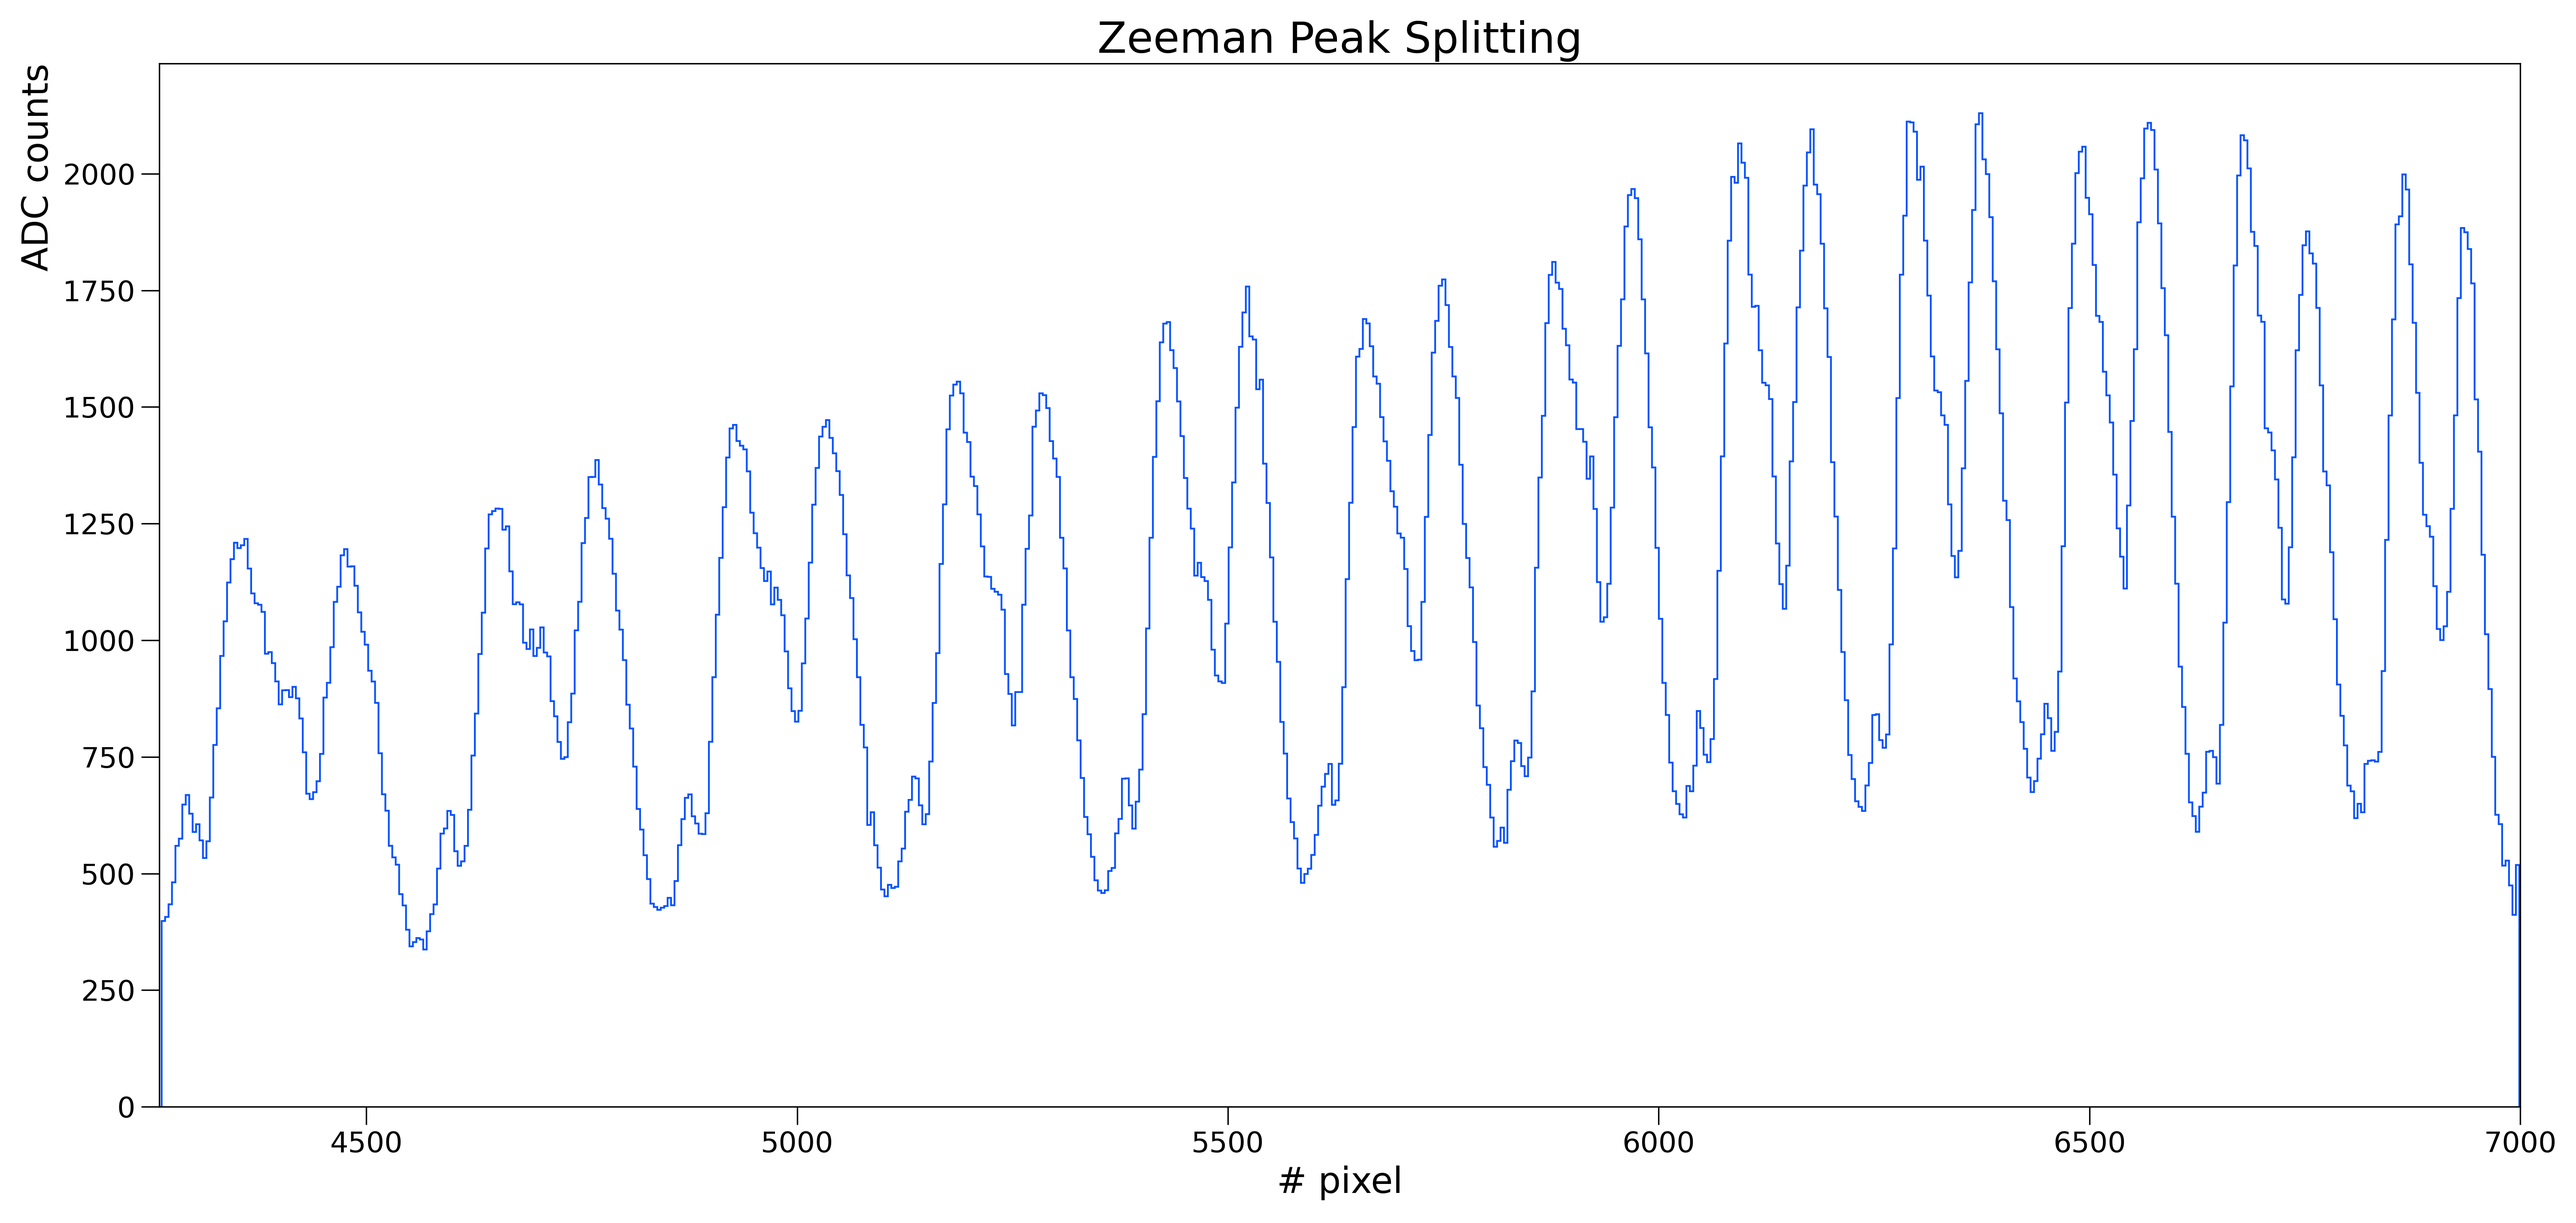
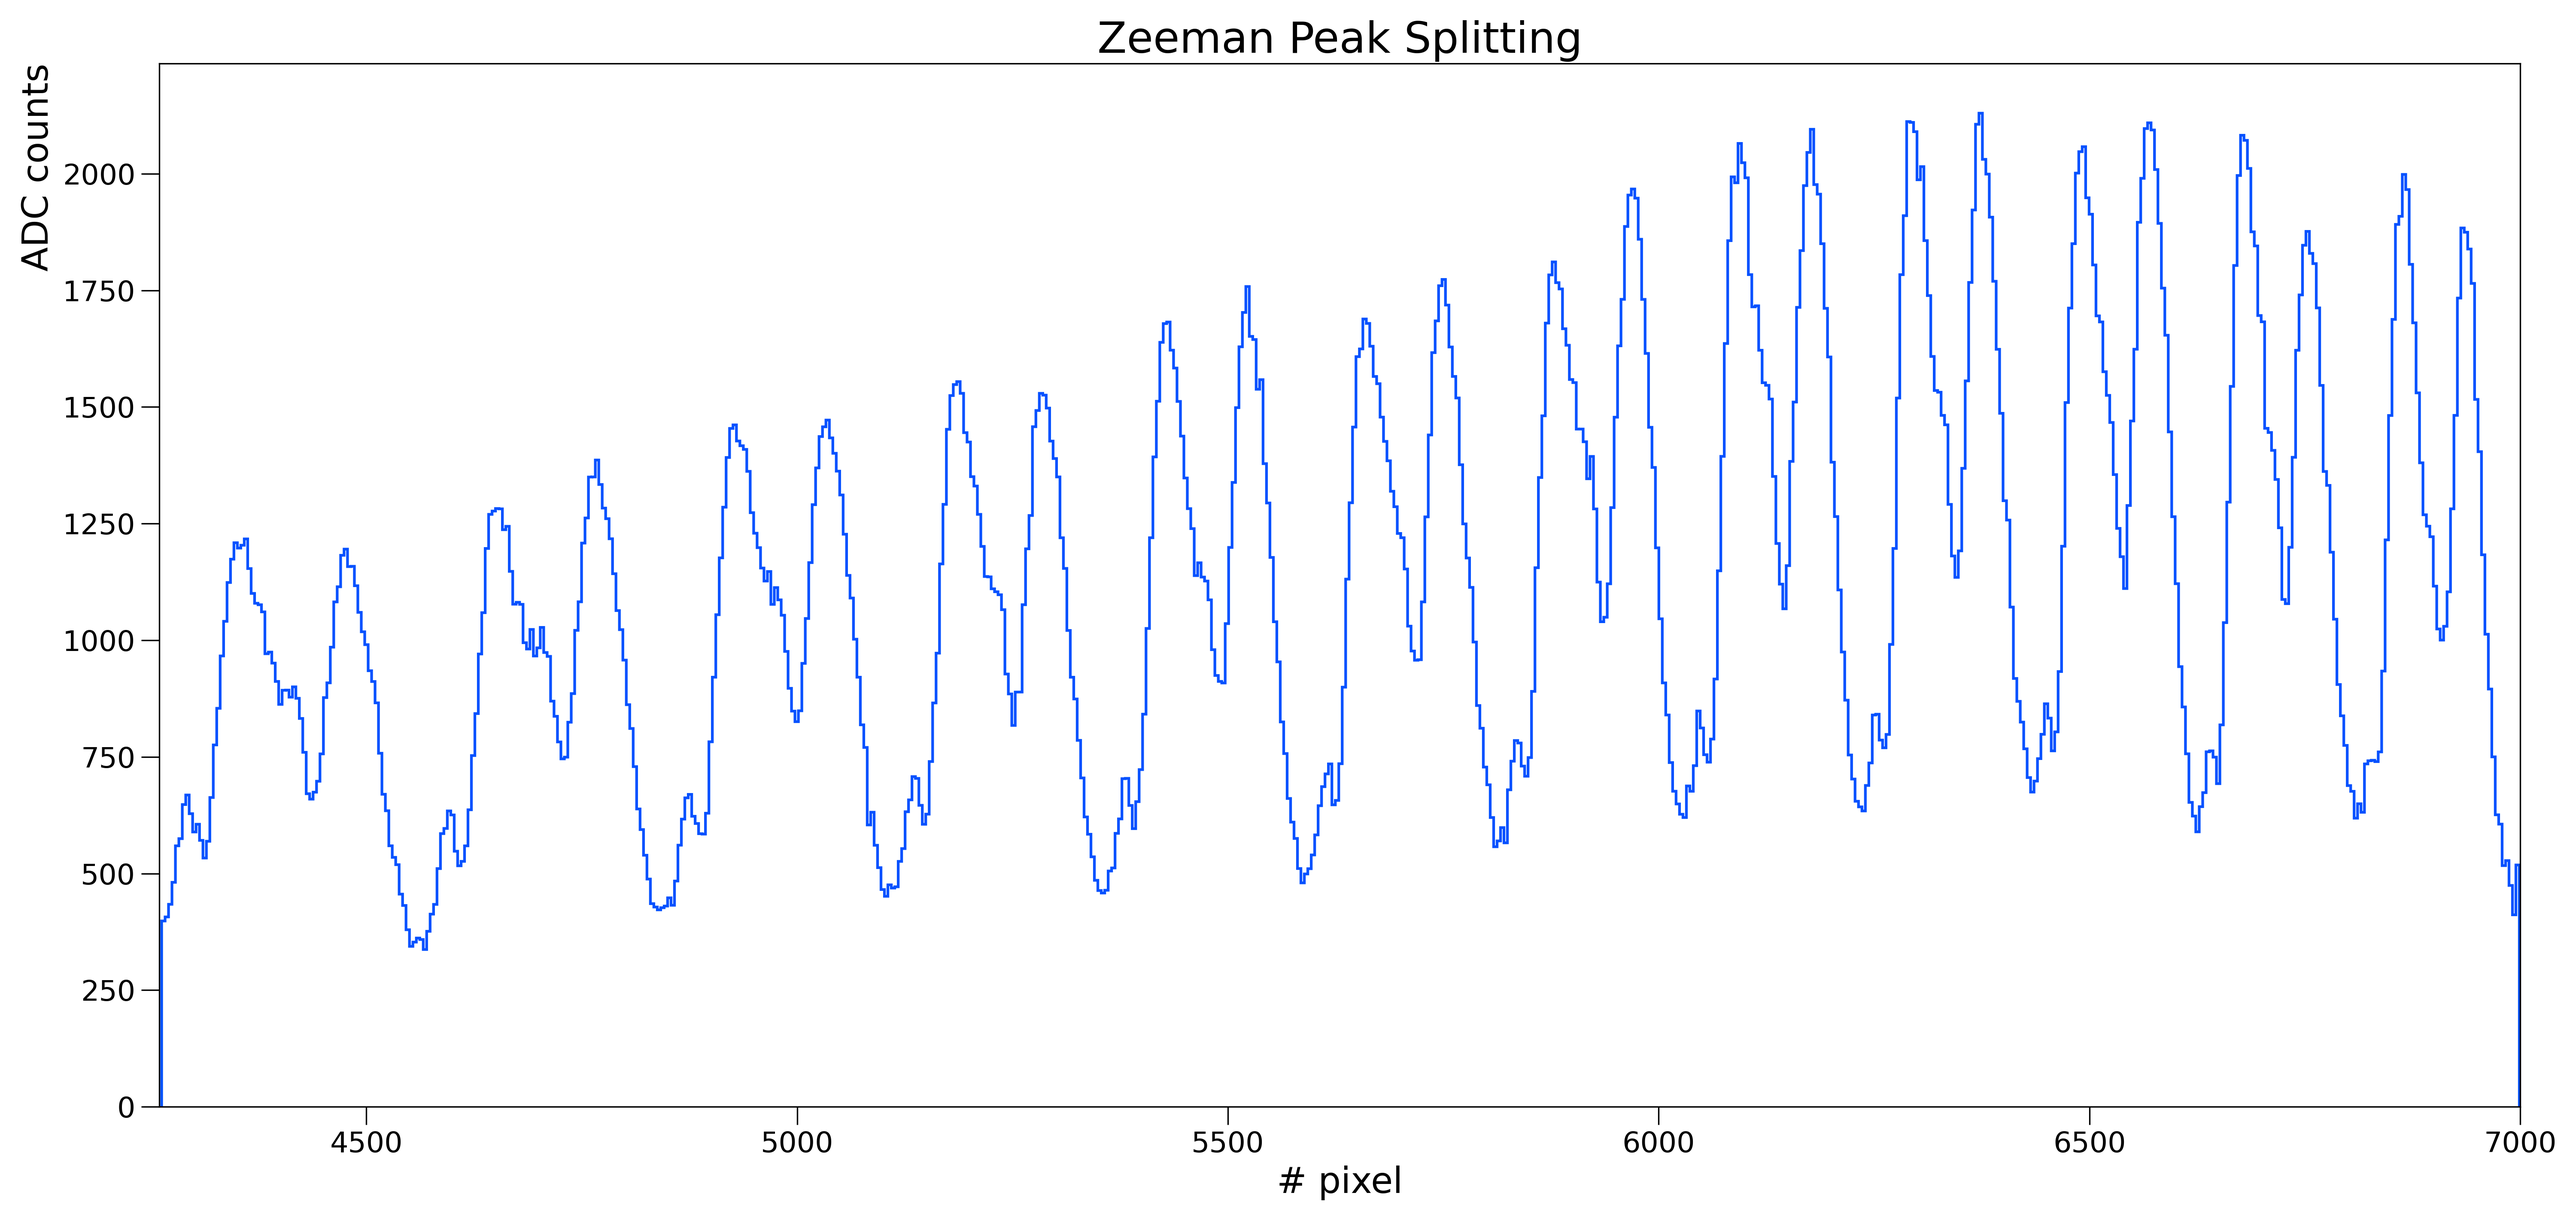
Updated plots

diff --git a/EFFETTO ZEEMAN/Code/overlap.py b/EFFETTO ZEEMAN/Code/overlap.py
@@ -48,10 +48,22 @@ def main():
         "bon_gp2.txt",
     ]
 
+    labels=[
+        "No polarimeter",
+        "Polarimeter config. 1",
+        "Polarimeter config. 2"
+    ]
+
+    colors = [
+        "#0451FF",
+        "#ff3504",
+        "#00C415"
+    ]
+
 
     # create figure
-    fig, ax = plt.subplots(figsize=(12,6))
-    fig.tight_layout()
+    fig, ax = plt.subplots(figsize=(20,9.5))
+    
 
     data=[] # store all datasets
 
@@ -66,9 +78,23 @@ def main():
                 bins = len(data[i]['X']),
                 weights = savgol_filter(data[i]['Y'],11,3),
                 histtype = 'step',
-                label=names[i])
+                linewidth = 1.5,
+                color = colors[i],
+                label=labels[i])
 
-    plt.legend()
+
+    ax.set_title('Zeeman Peak Splitting', fontsize = 24)
+    ax.set_xlabel('# pixel', fontsize = 20)
+    ax.set_ylabel('ADC counts', fontsize = 20, loc = 'top')
+    ax.tick_params(axis = 'both', which = 'major', labelsize = 16, direction = 'out', length = 10)
+
+    ax.set_ylim(bottom = 0, top = 1400)
+    ax.set_xlim(left = 3915, right = 7145)
+
+    ax.legend(loc = 'upper left', prop = {'size': 18})
+
+    fig.tight_layout()
+    fig.savefig('../Plots/Bon_overlap2.png', dpi = 300, facecolor = 'white')
     plt.show()
  
 

diff --git a/EFFETTO ZEEMAN/Code/landeFactor.py b/EFFETTO ZEEMAN/Code/landeFactor.py
@@ -75,7 +75,7 @@ def findPeaks(newData):
 
 
     # plot data
-    ax.hist(newData['X'], bins = int(len(newData['X'])), weights = newData['Y'], histtype = 'step', color = '#0451FF')
+    ax.hist(newData['X'], bins = int(len(newData['X'])), weights = newData['Y'], histtype = 'step', linewidth = 1.5, color = '#0451FF')
     # plot peaks
     # ax.plot(newData['X'].iloc[peaks], newData['Y'].iloc[peaks], '.', color='red')
 
@@ -242,7 +242,7 @@ def main(fname):
     ax.tick_params(axis = 'both', which = 'major', labelsize = 16, direction = 'out', length = 10)
 
     fig.tight_layout()
-    # fig.savefig('../Plots/Bon_Y_proj.png', dpi = 300, facecolor = 'white')
+    fig.savefig('../Plots/Bon_Y_proj2.png', dpi = 300, facecolor = 'white')
     plt.show()
 
     return

diff --git a/EFFETTO ZEEMAN/Code/zeemanPlot.py b/EFFETTO ZEEMAN/Code/zeemanPlot.py
@@ -127,7 +127,7 @@ def main(argv):
     ax1.tick_params(axis = 'both', which = 'major', labelsize = 16, direction = 'out', length = 5)
 
     # 1D histogram: x projection
-    ax2.hist(xhist1D, bins = len(proj), weights=proj, histtype='step', color = '#0451FF')
+    ax2.hist(xhist1D, bins = len(proj), weights=proj, histtype='step', linewidth = 1.5, color = '#0451FF')
     ax2.set_title('1D Spectrum - X Projection', fontsize = 24)
     ax2.set_xlabel('# misura', fontsize = 18)
     ax2.set_ylabel('ADC counts - <background>', fontsize = 18)
